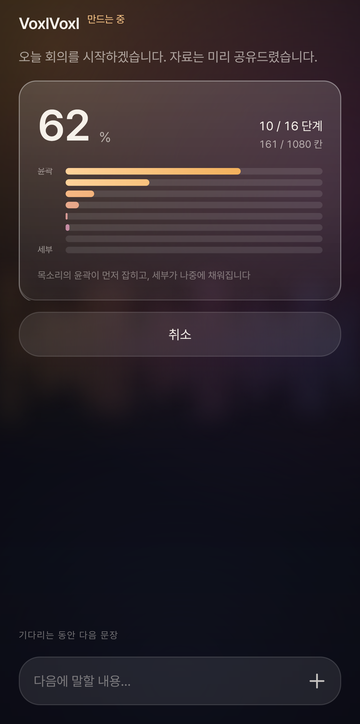
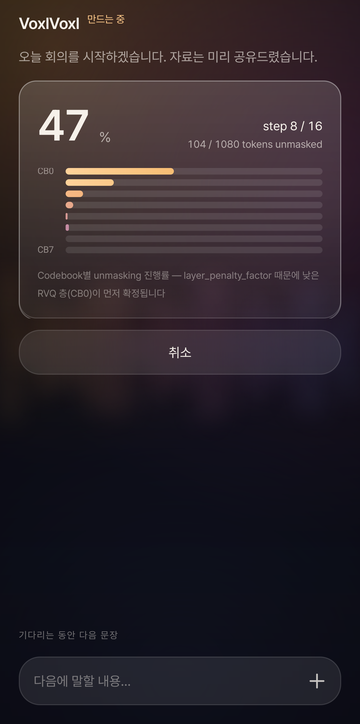
docs: bring README up to date -- 9.4 s through the app, 4.0x from the start
Measured through the app today, same device and sentences as before:

  5.3 s of audio    38.1 s (start) -> 19.4 s (int8) -> 9.4 s (KV cache)  RTF 1.8
  19.4 s of audio   54.1 s (int8)  -> 40.2 s (KV cache)                  RTF 2.1

The README's headline numbers, benchmark table and screenshots all predated
the KV cache, the academic wording and script following. Retaken on the phone
after the cleanup, which doubles as the check that the app still runs on the
slimmed model set: compose with the corrected estimate, generating with CB0/CB7
and tokens unmasked, the result mid-playback with the spoken part highlighted
across lines, library, enroll, and the launcher icon. Status bars cropped;
they carry notifications, not the app.

Two things the new numbers changed, recorded rather than smoothed over:

  - short sentences are now cheaper per second than long ones. Before the
    cache the fixed prefix made long utterances win; with it removed, what
    remains grows with length. The compose hint about batching was measured
    before the cache and is flagged for re-measurement.
  - peak PSS at S = 757 was sampled at ~1.9 GB against 1.45 GB. The prefill
    materialises present_key/value for the whole sequence and the slice
    copies them again -- the obvious next memory fix.

Also fixes the compose estimate, which still used the pre-int8 RTF table and
told users ~60 s for a sentence that takes 9. It now uses what the device last
[…]

diff --git a/android/OmniVoicePoC/app/src/main/kotlin/ai/omnivoice/poc/MainActivity.kt b/android/OmniVoicePoC/app/src/main/kotlin/ai/omnivoice/poc/MainActivity.kt
@@ -57,13 +57,14 @@ class MainActivity : AppCompatActivity() {
 
     companion object {
         const val TAG = "OmniVoice.UI"
-        private val STEPS = listOf(8 to "5.4×", 16 to "11.2×", 32 to "24.6×")
-        private val THREADS = listOf(1 to "38.2×", 2 to "22.2×", 4 to "13.9×",
-            6 to "11.6×", 8 to "17.3×")
+        // Measured on the S26 Ultra with int8 compute and the prefix KV cache
+        // (2026-09-13); "—" where the current path has not been measured.
+        private val STEPS = listOf(8 to "—", 16 to "1.8×", 32 to "—")
+        private val THREADS = listOf(1 to "—", 2 to "—", 4 to "—", 6 to "1.8×", 8 to "—")
         private val BACKENDS = listOf(
-            Triple(Backend.CPU, "11.06×", ""),
-            Triple(Backend.XNNPACK, "12.46×", "0/2785 nodes"),
-            Triple(Backend.NNAPI, "12.94×", "0/2785 nodes"),
+            Triple(Backend.CPU, "1.8×", ""),
+            Triple(Backend.XNNPACK, "slower", "0/2785 nodes"),
+            Triple(Backend.NNAPI, "slower", "0/2785 nodes"),
         )
     }
 
@@ -606,6 +607,21 @@ class MainActivity : AppCompatActivity() {
      * device actually measured, so the number on screen is the number the user
      * will live through.
      */
+    private val prefs by lazy { getSharedPreferences("voxlvoxl", MODE_PRIVATE) }
+
+    /**
+     * RTF for the compose estimate. The table this replaced was measured before
+     * int8 compute and the prefix KV cache, and told users ~60 s for a sentence
+     * that takes 9. So: what this device last measured at this step count, and
+     * until it has, the 16-step RTF measured on the S26 Ultra (1.8) scaled by the
+     * step count -- the un-masking loop is nearly all of the time, and RTF was
+     * measured to scale linearly with steps (5.4 / 11.2 / 24.6 at 8 / 16 / 32).
+     */
+    private fun estimateRtf(stepCount: Int): Float {
+        val measured = prefs.getFloat("rtf_s$stepCount", -1f)
+        return if (measured > 0f) measured else 1.8f * stepCount / 16f
+    }
+
     private fun updateEstimate() {
         val text = id<EditText>(R.id.targetText).text.toString()
         val det = LanguageDetector.detect(text)
@@ -614,7 +630,7 @@ class MainActivity : AppCompatActivity() {
         val p = selected
         val frames = DurationEstimator.estimateFrames(text, p?.refText, p?.frames ?: 0)
         val audio = frames.toFloat() / OV.FRAME_RATE
-        val rtf = when (steps) { 8 -> 5.4f; 32 -> 24.6f; else -> 11.2f }
+        val rtf = estimateRtf(steps)
         id<TextView>(R.id.composeEstimate).text =
             "≈%.1fs audio · RTF %.1f → %ds".format(audio, rtf, (audio * rtf).toInt())
     }
@@ -732,6 +748,8 @@ class MainActivity : AppCompatActivity() {
             }
             is SynthesisService.Status.Done -> {
                 lastResult = s.result
+                prefs.edit().putFloat("rtf_s$steps", s.result.metrics.rtf.toFloat()).apply()
+                updateEstimate()
                 player.onFinished = {
                     setPlayIcon(R.id.resultPlay, false)
                     stopTicking()

diff --git a/README.md b/README.md
@@ -25,10 +25,11 @@ backend / thread / step benchmark — measured on a **Galaxy S26 Ultra (SM-S948N
 | | |
 |---|---|
 | Deterministic ONNX vs PyTorch, re-masking NLL judge | **2.7325** vs **2.7672** — interchangeable, not merely close |
-| Fastest backend on device | **plain CPU**, 6 threads (XNNPACK +13 %, NNAPI +17 % slower) |
-| 5.4 s utterance, 16 steps, int4 | **19.4 s — RTF 3.6** |
-| 19.3 s utterance | **54.1 s — RTF 2.8** |
-| Peak memory | 769 MB PSS at S = 188, 1.45 GB at S = 757 |
+| Fastest path on device | **CPU**, 6 threads, int8 compute + prefix KV cache. XNNPACK +13 % and NNAPI +17 % slower; the Hexagon NPU (QNN) is 2.37x faster per forward but 0.94x end to end |
+| Script following | the spoken part lights up during playback — exact at chunk boundaries, estimated inside a chunk |
+| 5.3 s utterance, 16 steps, int4, KV cache | **9.4 s — RTF 1.8** (38.1 s where this started) |
+| 19.4 s utterance | **40.2 s — RTF 2.1** |
+| Peak memory | ~0.9 GB PSS at S = 242, ~1.9 GB at S = 757 (sampled) |
 | Voice profile on disk | **1 766 bytes**, no audio kept |
 | Network permissions in the manifest | **none** |
 
@@ -41,17 +42,17 @@ backend / thread / step benchmark — measured on a **Galaxy S26 Ultra (SM-S948N
 <tr>
 <td align="center"><sub>write · the estimate is the device's own measured RTF</sub></td>
 <td align="center"><sub>generate · the ladder is the model's real un-masking state</sub></td>
-<td align="center"><sub>done · every number here was measured on this run</sub></td>
+<td align="center"><sub>done · the spoken part lights up as it plays</sub></td>
 </tr>
 <tr>
 <td><img src="docs/screens/enroll.png" width="200"></td>
 <td><img src="docs/screens/library.png" width="200"></td>
-<td></td>
+<td align="center"><img src="docs/screens/icon.png" width="120"></td>
 </tr>
 <tr>
 <td align="center"><sub>enroll · the script is given, so the transcript is exact</sub></td>
 <td align="center"><sub>voices · 1.8 kB of codec codes each, never a recording</sub></td>
-<td></td>
+<td align="center"><sub>launcher icon · per-codebook unmasking, CB0 to CB7</sub></td>
 </tr>
 </table>
 
@@ -192,8 +193,10 @@ All at int4, guidance 2.0, cold device. Full tables and method in
 
 | backend | threads | steps | audio | latency | RTF | peak PSS |
 |---|---:|---:|---:|---:|---:|---:|
-| **CPU** | **6** | **16** | 19.28 s | **54.1 s** | **2.8** | 1.45 GB |
-| **CPU** | **6** | **16** | 5.35 s | **19.4 s** | **3.6** | — |
+| **CPU + KV cache** | **6** | **16** | 5.26 s | **9.4 s** | **1.8** | — |
+| **CPU + KV cache** | **6** | **16** | 19.36 s | **40.2 s** | **2.1** | ~1.9 GB |
+| CPU (before KV cache) | 6 | 16 | 5.35 s | 19.4 s | 3.6 | — |
+| CPU (before KV cache) | 6 | 16 | 19.28 s | 54.1 s | 2.8 | 1.45 GB |
 | CPU (before §5.1) | 6 | 16 | 6.05 s | 38.1 s | 6.3 | 769 MB |
 | CPU (before §5.1) | 6 | 16 | 1.88 s | 18.5 s | 11.3 | 591 MB |
 | CPU | 6 | 8 | 1.88 s | 7.6 s | 5.4 | — |
@@ -209,10 +212,12 @@ Two results in that table are worth reading twice.
 and 8 land on the prime cores and the whole step then waits on migration and shared thermal
 budget. 6 is the setting the app ships.
 
-**A longer sentence is cheaper per second.** RTF 2.8 for 19.3 s of audio against RTF 3.6 for
-5.4 s — the reference prefix is a fixed cost paid once per generation, so short utterances
-amortise it over almost nothing. The app says so in the compose screen's hint rather than
-hiding it.
+**The KV cache flipped which sentence is cheaper per second.** Before it, a long sentence won —
+RTF 2.8 for 19.3 s against 3.6 for 5.4 s — because the reference prefix was a fixed cost
+re-encoded on every step, and a short sentence amortised it over almost nothing. With the
+prefix encoded once, short now wins: RTF **1.8** for 5.3 s against **2.1** for 19.4 s, because
+what remains grows with the generated length. The compose screen's "one long script beats
+several short ones" hint was measured before the cache and is due a re-measurement.
 
 ---
 
@@ -261,11 +266,14 @@ alone 1.25x. Full working in [`docs/research-notes.md`](docs/research-notes.md) 
   re-running fp32 with different sampling noise. §1.
 - **NNAPI with pinned shapes.** Gets the partitioner from 0 to 142 nodes, which then run
   **5.6x slower** than the whole graph on CPU.
-- **QNN / Hexagon.** The right accelerator for this SoC. The runtime blocker we hit — ORT
-  1.22's bundled QNN SDK shipping V79 HTP skels against the device's V81 — is gone in newer
-  ORT, but the project is not: the QNN EP still needs static bucketed shapes and a quantized
-  model with no `MatMulNBits` path, and our QDQ a16w8 attempt measured NLL 3.331, past the
-  noise floor, at 1209 ms against 766 ms on CPU. §7.7.
+- **QNN / Hexagon — runs, and still does not win.** The NPU was unreachable until the manifest
+  declared `<uses-native-library android:name="libcdsprpc.so">`; since Android 12 an app may
+  only open that vendor FastRPC library if it declares it, and without it `QnnDevice_create`
+  fails with `INVALID_CONFIG` whatever the SDK version. With it, the whole static a16w8 graph
+  compiles onto HTP (context binary: 38 s once, 0.86 s after) and one full forward takes
+  **183 ms against 434 ms on CPU — 2.37x**. But the NPU graph has no KV cache, so 16 steps come
+  to **4 672 ms against 4 383 ms for CPU + KV cache (0.94x)**, and NPU and CPU agree on only
+  190 of 384 argmaxes. The build stays on CPU; retrying is two lines. §7.7b.
 
 **Taken since:** the approximate **prefix KV cache** — see the table above and [`docs/research-notes.md`](docs/research-notes.md) §7.1. The reasoning that priced it: Bidirectional
 attention forbids a cache across the generated region — that is §1.1's central finding — but
@@ -291,8 +299,9 @@ prefix range. That is the remaining lever.
 - **`guidance_scale = 0` is not a speed lever.** It produces pure silence.
 - **int4 has two hard constraints.** `/audio_heads/MatMul` must stay fp32 and the block size
   must be 32. §1.
-- **NNAPI does not help**, and is deprecated as of Android 15. The real accelerator option
-  on this device is QNN / Hexagon — see above.
+- **No accelerator beats the CPU path yet.** NNAPI is slower and deprecated as of Android 15.
+  QNN runs on the Hexagon NPU and is faster per forward, but without a KV-cached static graph
+  and a quantization that survives activation outliers it loses end to end — see above.
 - **The reference transcript is typed by the user.** No Whisper in v1, by design. The app
   hands the user a script to read so the transcript is exact rather than remembered.
 - **Long text is expensive**, quadratically so — attention is `O(S²)` and `S` includes the

diff --git a/docs/research-notes.md b/docs/research-notes.md
@@ -509,6 +509,23 @@ number to quote per forward, and this table only confirms the port.
 
 Cost: peak PSS **771–794 MB → 892–931 MB**, about +130 MB, for the cached
 prefix K/V and the copy made while slicing it out of the prefill.
+
+**Through the app**, same device, same sentences as §5.1's app measurements:
+
+| sentence | before KV cache | with KV cache | |
+|---|---:|---:|---:|
+| 5.3 s of audio | 19.4 s, RTF 3.63 | **9.4 s, RTF 1.79** | 2.06× |
+| 19.4 s of audio (S = 757) | 54.1 s, RTF 2.81 | **40.2 s, RTF 2.08** | 1.35× |
+
+Against where the project started (38.1 s, RTF 6.3 for the short sentence) that is
+**4.0×**. Two consequences worth recording:
+
+- **Short is now cheaper per second than long.** Before the cache the fixed prefix
+  made long utterances cheaper; with it removed, what remains grows with length.
+- **Memory at long S rose further.** Sampled peak PSS at S = 757 is ~1.9 GB against
+  1.45 GB before. The prefill materialises `present_key`/`present_value` for the
+  whole sequence (28 × 8 × 757 × 128 floats each) and the slice copies them again;
+  freeing those promptly is the obvious next memory fix.
 `models/onnx/int4_kv/omnivoice_lm_kv.onnx` carries `past_key`/`past_value` in and
 `present_key`/`present_value` out (28 layers × 8 heads × 128), opset 20, sharing
 the same 422 MB weight blob. `scripts/kvcache_probe.py` has the harness
